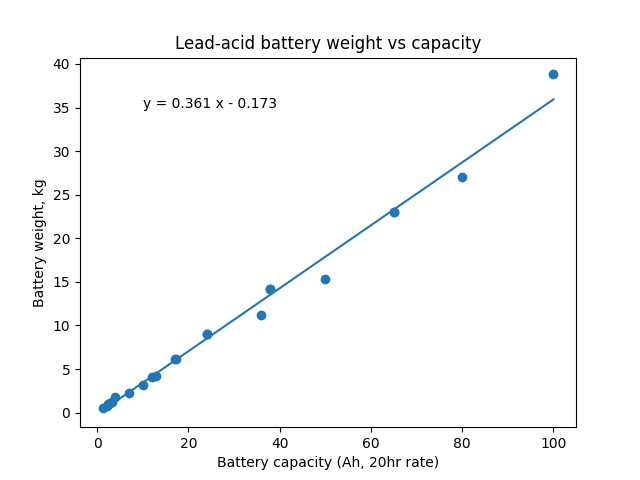
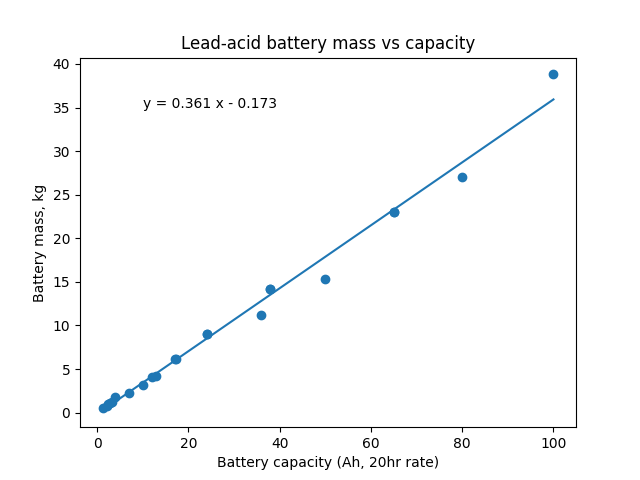
Adds code and data to draw bar charts of regulator night consumption.

Changed region(s): [[0.2812, 0.0625, 0.75, 0.125], [0.0312, 0.375, 0.0938, 0.6562]]

diff --git a/regulator_bar_charts.py b/regulator_bar_charts.py
@@ -2,3 +2,95 @@ import pandas as pd
 import matplotlib.pyplot as plt
 import numpy as np
 
+# import regulator data
+reg_data = pd.read_csv('regulators-tests.csv')
+
+# make combined make/model column
+reg_data["Make/model"] = reg_data['Manufacturer'] + " " +  reg_data['Model number']
+
+# drop unnecessary column
+reg_data.drop('Measured night consumption (A)',axis='columns', inplace=True)
+
+# rename column
+reg_data.rename(columns={"mA":"Measured night consumption (mA)"}, inplace=True)
+
+# create data subset for regulators <4.5A rating
+small_reg_data = reg_data[reg_data['Rated current (A)'] <4.5] 
+small_reg_data_sorted = small_reg_data.sort_values(by = 'Measured night consumption (mA)')
+
+# drop unnnecessary column
+small_reg_data_sorted.drop('Rated current (A)', axis='columns', inplace=True)
+
+print(small_reg_data_sorted)
+
+ax = small_reg_data_sorted.plot.bar(x='Make/model', rot=0)
+
+# Add some text for labels, title and custom x-axis tick labels, etc.
+
+ax.set_title('Currrent consumption of regulators rated to <4.5A')
+ax.set_ylabel('Current, mA')
+
+plt.savefig('small_regulators.png')
+
+# 5A-class regulators
+
+# create data subset for regulators >4.5A <7 rating
+medium_reg_data = reg_data[reg_data['Rated current (A)'].between(4.5, 7)] 
+medium_reg_data_sorted = medium_reg_data.sort_values(by = 'Measured night consumption (mA)')
+
+# drop unnnecessary column
+medium_reg_data_sorted.drop('Rated current (A)', axis='columns', inplace=True)
+
+print(medium_reg_data_sorted)
+
+ax = medium_reg_data_sorted.plot.bar(x='Make/model')
+
+# Add some text for labels, title and custom x-axis tick labels, etc.
+
+ax.set_title('Currrent consumption of regulators rated to 4.5 - 7A')
+ax.set_ylabel('Current, mA')
+
+
+# apply wordwrap to labels
+
+import textwrap
+def wrap_labels(ax, width, break_long_words=False):
+    labels = []
+    for label in ax.get_xticklabels():
+        text = label.get_text()
+        labels.append(textwrap.fill(text, width=width,
+                      break_long_words=break_long_words))
+    ax.set_xticklabels(labels, rotation=0)
+
+wrap_labels(ax, 10)
+
+plt.subplots_adjust(bottom = 0.22)
+
+plt.savefig('medium_regulators.png')
+
+# 10A-class regulators
+
+# create data subset for regulators >9 <11 rating
+medium_reg_data = reg_data[reg_data['Rated current (A)'].between(9, 50)] 
+medium_reg_data_sorted = medium_reg_data.sort_values(by = 'Measured night consumption (mA)')
+
+# drop unnnecessary column
+medium_reg_data_sorted.drop('Rated current (A)', axis='columns', inplace=True)
+
+print(medium_reg_data_sorted)
+
+ax = medium_reg_data_sorted.plot.bar(x='Make/model', figsize=(10,8))
+
+# Add some text for labels, title and custom x-axis tick labels, etc.
+
+ax.set_title('Currrent consumption of regulators rated to >9A')
+ax.set_ylabel('Current, mA')
+
+wrap_labels(ax, 10)
+
+plt.subplots_adjust(bottom = 0.22)
+
+plt.savefig('big_regulators.png')
+
+
+

diff --git a/pba_weight_price_plots.py b/pba_weight_price_plots.py
@@ -22,8 +22,8 @@ plt.plot(battery_data['Capacity (Ah, 20hr rate)'], trendline(battery_data['Capac
 
 # add titles
 plt.xlabel('Battery capacity (Ah, 20hr rate)')
-plt.ylabel('Battery weight, kg')
-plt.title('Lead-acid battery weight vs capacity')
+plt.ylabel('Battery mass, kg')
+plt.title('Lead-acid battery mass vs capacity')
 
 eqn_string = "%s" % trendline 
 
